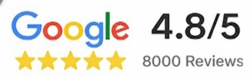
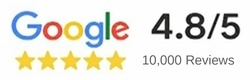
change in index and contact form mitsde-form folder

diff --git a/mitsde-form/contact-us-admission.php b/mitsde-form/contact-us-admission.php
@@ -162,9 +162,7 @@ $pagename = (isset($_SERVER['HTTPS']) ? "https" : "http") . "://$_SERVER[HTTP_HO
 new Date().getTime(),event:'gtm.js'});var f=d.getElementsByTagName(s)[0],
 j=d.createElement(s),dl=l!='dataLayer'?'&l='+l:'';j.async=true;j.src=
 'https://www.googletagmanager.com/gtm.js?id='+i+dl;f.parentNode.insertBefore(j,f);
-})(window,document,'script','dataLayer','GTM-KQJGLPK');
- //gtag('config', 'UA-157950260-1');  
-</script>
+})(window,document,'script','dataLayer','GTM-KPLJSVF8');</script>
 <!-- End Google Tag Manager -->
 
     <script type="text/javascript">
@@ -261,7 +259,8 @@ j=d.createElement(s),dl=l!='dataLayer'?'&l='+l:'';j.async=true;j.src=
 </head>
 
 <body>
-    <noscript><iframe src="https://www.googletagmanager.com/ns.html?id=GTM-KQJGLPK"
+    <!-- Google Tag Manager (noscript) -->
+<noscript><iframe src="https://www.googletagmanager.com/ns.html?id=GTM-KPLJSVF8"
 height="0" width="0" style="display:none;visibility:hidden"></iframe></noscript>
 <!-- End Google Tag Manager (noscript) -->
     <div class="d-flex justify-content-end">
@@ -277,9 +276,9 @@ height="0" width="0" style="display:none;visibility:hidden"></iframe></noscript>
                 <input type="hidden" name="request_type3" value="Enquiry" />
 
                 <div class="mb-1">
-                    <input name="first_name3" type="text" class="form-control" value="First Name*"
+                    <input name="first_name3" type="text" class="form-control" value="Full Name*"
                         onBlur="javascript:addDefault(this,'contactformAddmission')" onFocus="javascript:removeDefault(this)"
-                        validate="Required|First Name*" />
+                        validate="Required|Full Name*" />
                 </div>
 
                 <div class="mb-1">
@@ -391,7 +390,7 @@ height="0" width="0" style="display:none;visibility:hidden"></iframe></noscript>
 
                     // placeholder text jo default value madhe aahe
                     var defaults = {
-                        first_name3: "First Name*",
+                        first_name3: "Full Name*",
                         email3: "Email*",
                         MobileNumber: "Mobile Number*"
                     };

diff --git a/mitsde-form/contact-us-new.php b/mitsde-form/contact-us-new.php
@@ -276,9 +276,9 @@ height="0" width="0" style="display:none;visibility:hidden"></iframe></noscript>
                 <input type="hidden" name="request_type3" value="Enquiry" />
 
                 <div class="mb-1">
-                    <input name="first_name3" type="text" class="form-control" value="First Name*"
+                    <input name="first_name3" type="text" class="form-control" value="Full Name*"
                         onBlur="javascript:addDefault(this,'contactform')" onFocus="javascript:removeDefault(this)"
-                        validate="Required|First Name*" />
+                        validate="Required|Full Name*" />
                 </div>
 
                 <div class="mb-1">
@@ -382,7 +382,7 @@ height="0" width="0" style="display:none;visibility:hidden"></iframe></noscript>
 
     // placeholder text jo default value madhe aahe
     var defaults = {
-        first_name3: "First Name*",
+        first_name3: "Full Name*",
         email3: "Email*",
         MobileNumber: "MobileNumber*"
     };

diff --git a/index.php b/index.php
@@ -227,7 +227,7 @@
             <div class="vertical-divider-1"></div>
             <div class="rating">
               <h4 class="js-counter" data-count="4.8" data-suffix="/5" data-decimals="1">4.8/5</h4>
-              <p class="js-counter" data-count="8000" data-suffix=" Reviews">8000 Reviews</p>
+              <p class="js-counter" data-count="10000" data-suffix=" Reviews">10000 Reviews</p>
             </div>
           </div>
           <div class="vertical-divider-2 d-lg-block d-md-none"></div>
